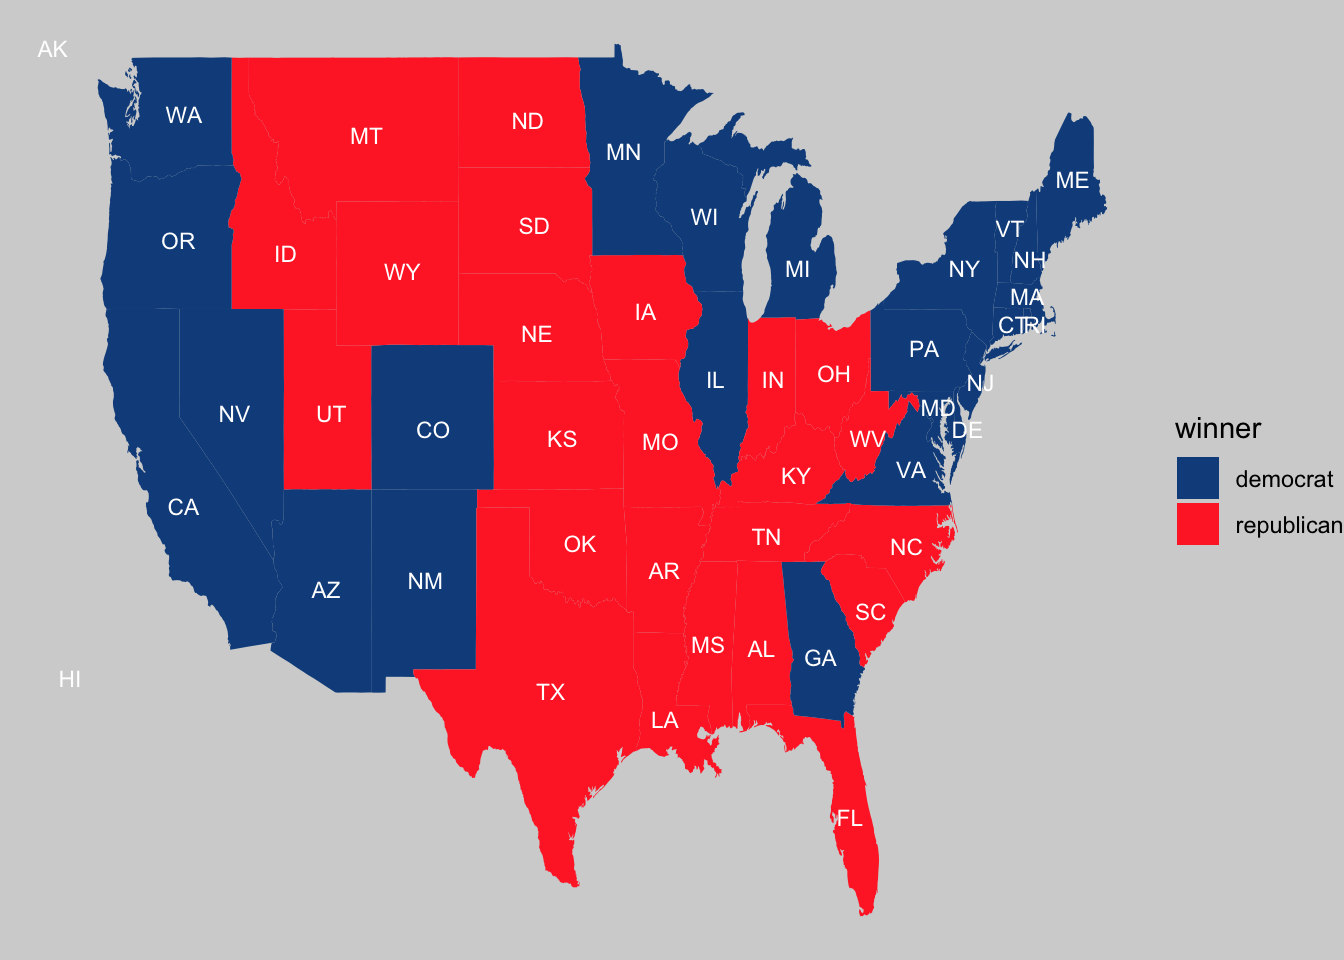
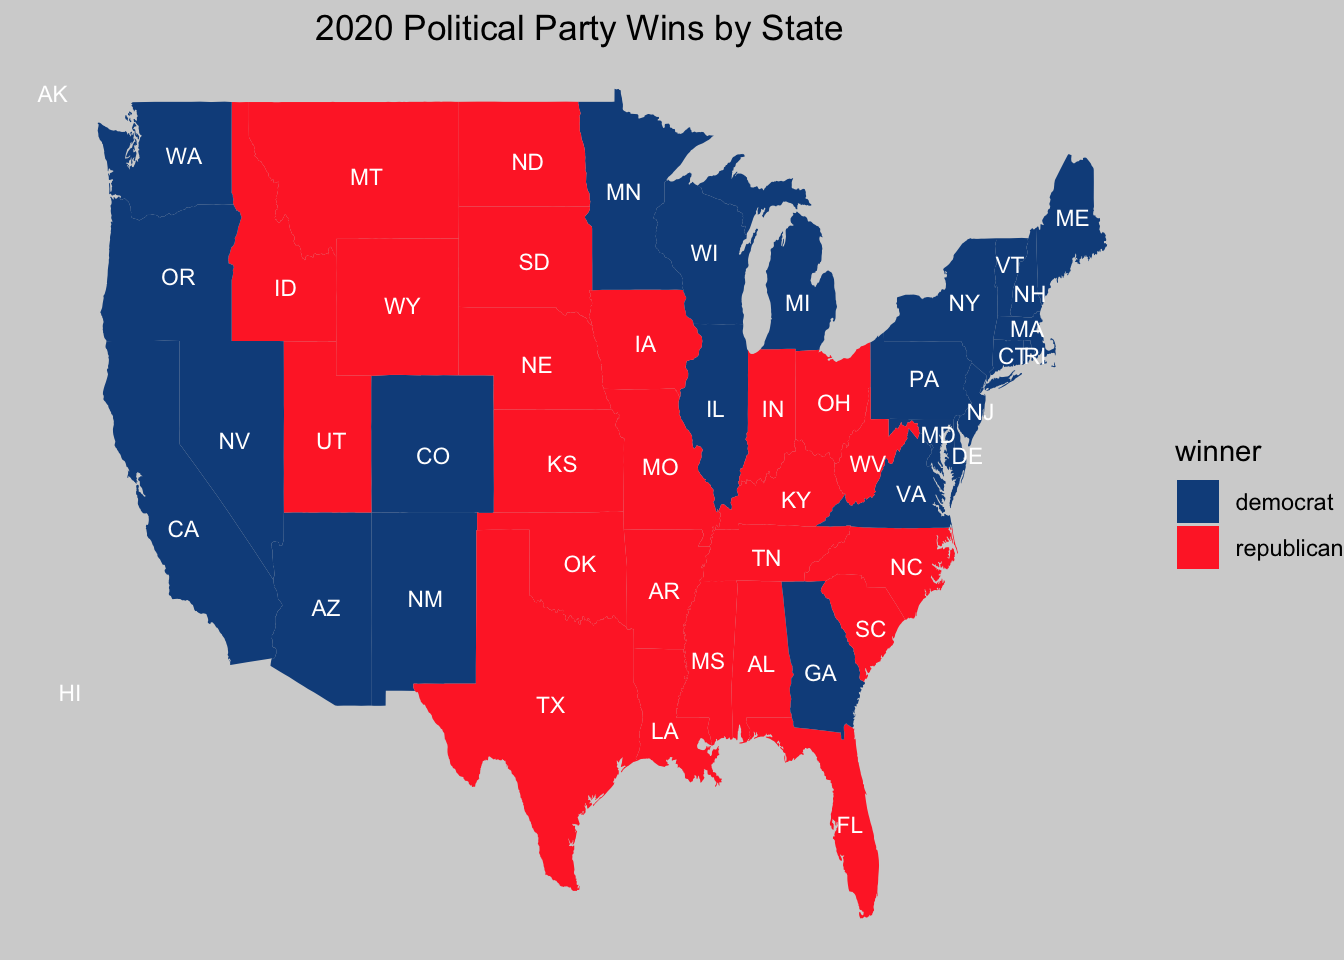
Blog 1 continued

diff --git a/public/post/2024/09/08/blog-post-1-a-dive-into-detailed-visualizations/index.html b/public/post/2024/09/08/blog-post-1-a-dive-into-detailed-visualizations/index.html
@@ -34,10 +34,6 @@
 </div>
 
 <main>
-<pre><code class="language-r">library(ggplot2)
-library(maps)
-library(tidyverse)
-</code></pre>
 <pre><code>## ── Attaching core tidyverse packages ──────────────────────── tidyverse 2.0.0 ──
 ## ✔ dplyr     1.1.4     ✔ readr     2.1.5
 ## ✔ forcats   1.0.0     ✔ stringr   1.5.1
@@ -49,35 +45,15 @@ library(tidyverse)
 ## ✖ purrr::map()    masks maps::map()
 ## ℹ Use the conflicted package (&lt;http://conflicted.r-lib.org/&gt;) to force all conflicts to become errors
 </code></pre>
-<pre><code class="language-r">library(dplyr)
-d_popvote &lt;- read.csv(&quot;/Users/chrisshen/Downloads/GOV1347/Election Blog 4/popvote_1948-2020.csv&quot;)
-</code></pre>
-<pre><code class="language-r">my_custom_theme &lt;- 
-  theme_bw() + 
-  theme(panel.border = element_blank(),
-        plot.title = element_text(size = 15, hjust = 0.5), 
-        axis.text.x = element_text(angle = 45, hjust = 1),
-        axis.text = element_text(size = 12),
-        strip.text = element_text(size = 18),
-        axis.line = element_line(colour = &quot;black&quot;),
-        legend.position = &quot;right&quot;,
-        legend.text = element_text(size = 12))
-
-d_popvote |&gt; 
-  ggplot(aes(x = year, y = pv2p, color = party)) + 
-  geom_line() + 
-  scale_color_manual(values = c(&quot;dodgerblue4&quot;, &quot;firebrick1&quot;)) + 
-  my_custom_theme + 
-  labs(
-    title = &quot;Visualize the Two-Party Presidential Popular Over Time&quot;
-  )
-</code></pre>
+<p><em>This blog is an ongoing assignment for Gov 1347: Election Analytics, a course at Harvard College taught by Professor Ryan Enos. It will be updated weekly and culminate in a predictive model of the 2024 presidential election.</em></p>
+<h2 id="introduction----how-competitive-are-presidential-elections-in-the-united-states-which-states-vote-bluered-and-how-consistently">Introduction &ndash; How competitive are presidential elections in the United States? Which states vote blue/red and how consistently?</h2>
+<p>As data analysts and political scientists get geared up for an exciting <strong>2024 Presidential Election</strong> between Kamala Harris (Democrat) and Donald Trump (Republican), we must first build an understanding of the landscape from historical data. This will give us the context necessary to build a substantial model that will hopefully predict the winner within reasonable margins.</p>
+<h2 id="a-starting-point">A Starting Point</h2>
+<p>To begin, let&rsquo;s start by examining the <strong>two-party presidential popular vote</strong> over time in the US from 1948 to 2020. The following is a line plot that depicts the how each political party&rsquo;s presidential popular vote has fluctuated over the decades indicated above.</p>
 <img src="https://example.org/post/2024/09/08/blog-post-1-a-dive-into-detailed-visualizations/index_files/figure-html/unnamed-chunk-2-1.png" width="672" />
-<pre><code class="language-r">states_map &lt;- map_data(&quot;state&quot;)
-
-# Reading the dataset
-d_pvstate_wide &lt;- read_csv(&quot;/Users/chrisshen/Downloads/GOV1347/Election Blog 4/clean_wide_state_2pv_1948_2020.csv&quot;)
-</code></pre>
+Looking at the graph above, note that the Republican vote share is the **exact inverse** of the Democratic vote share. This makes sense since we're analyzing *two-party* vote share: Republican (R) + Democrat (D) = 1, meaning R = 1 - D. Mathematically, we can verify the visualization.
+<p>Next, we observe substantial volatility in from the 1960s to the 1980s, portrayed by sharp increases and decreases by both party graph lines. Historically, this was a period of great change and turmoil in American history. For example, the Civil Rights Movement, Vietnam War, and the Watergate scandal had dramatic influences on electoral shifts and popular vote decisions. Entering the 1990s and beyond saw periods of stability and narrowing of political polarization. More importantly, the <strong>economy and global economic conditions</strong> played greater roles in determining voter trends. Entering the 21st-century, such as the 2004 and 2016 elections, saw increased emphasis on economic dynamics <a href="https://fairmodel.econ.yale.edu/RAYFAIR/PDF/2018B.htm">Fair 2018</a>. Further analysis of economic influence will be discussed in later blog posts, so stay tuned!</p>
+<h2 id="geographical-additions">Geographical Additions</h2>
 <pre><code>## Rows: 959 Columns: 14
 ## ── Column specification ────────────────────────────────────────────────────────
 ## Delimiter: &quot;,&quot;
@@ -87,50 +63,10 @@ d_pvstate_wide &lt;- read_csv(&quot;/Users/chrisshen/Downloads/GOV1347/Election 
 ## ℹ Use `spec()` to retrieve the full column specification for this data.
 ## ℹ Specify the column types or set `show_col_types = FALSE` to quiet this message.
 </code></pre>
-<pre><code class="language-r"># Merge d_pvstate_wide with state_map.
-d_pvstate_wide$region &lt;- tolower(d_pvstate_wide$state)
-
-pv_map &lt;- d_pvstate_wide |&gt;
-  filter(year == 2020) |&gt;
-  left_join(states_map, by = &quot;region&quot;)
-
-# Make map grid of state winners for each election year 
-pv_win_map &lt;- pv_map |&gt; 
-  mutate(winner = ifelse(R_pv2p &gt; D_pv2p, &quot;republican&quot;, &quot;democrat&quot;))
-
-# Create state labels (centered)
-state_centroids &lt;- data.frame(state = tolower(state.name), 
-                              long = state.center$x, 
-                              lat = state.center$y, 
-                              abb = state.abb)
-
-# Plot the map with state labels in the center
-pv_win_map |&gt; 
-  ggplot(aes(long, lat, group = group)) + 
-  geom_polygon(aes(fill = winner)) + 
-  scale_fill_manual(values = c(&quot;dodgerblue4&quot;, &quot;firebrick1&quot;)) + 
-  geom_text(data = state_centroids, aes(x = long, y = lat, label = abb), 
-            color = &quot;white&quot;, size = 3, inherit.aes = FALSE) + 
-  theme_void() +
-  theme(panel.background = element_rect(fill = &quot;lightgrey&quot;, color = NA), 
-        plot.background = element_rect(fill = &quot;lightgrey&quot;, color = NA))
-</code></pre>
-<img src="https://example.org/post/2024/09/08/blog-post-1-a-dive-into-detailed-visualizations/index_files/figure-html/unnamed-chunk-3-1.png" width="672" />
-<pre><code class="language-r">d_pvstate_wide |&gt; 
-  filter(year &gt;= 1980) |&gt; 
-  left_join(states_map, by = &quot;region&quot;) |&gt; 
-  mutate(winner = ifelse(R_pv2p &gt; D_pv2p, &quot;republican&quot;, &quot;democrat&quot;)) |&gt; 
-  ggplot(aes(long, lat, group = group)) +
-  facet_wrap(facets = year ~.) + 
-  geom_polygon(aes(fill = winner), color = &quot;white&quot;) + 
-  scale_fill_manual(values = c(&quot;dodgerblue4&quot;, &quot;firebrick1&quot;)) + 
-  theme_void() + 
-  ggtitle(&quot;Presidential Vote Share (1980-2020)&quot;) + 
-  theme(strip.text = element_text(size = 12), 
-        aspect.ratio = 1) +
-  theme(panel.background = element_rect(fill = &quot;lightgrey&quot;, color = NA), 
-        plot.background = element_rect(fill = &quot;lightgrey&quot;, color = NA))
-</code></pre>
+<div class="figure">
+<img src="https://example.org/post/2024/09/08/blog-post-1-a-dive-into-detailed-visualizations/index_files/figure-html/unnamed-chunk-3-1.png" alt="Added state abbreviations and custom theme as part of possible blog extension" width="672" />
+<p class="caption"><span id="fig:unnamed-chunk-3"></span>Figure 1: Added state abbreviations and custom theme as part of possible blog extension</p>
+</div>
 <pre><code>## Warning in left_join(filter(d_pvstate_wide, year &gt;= 1980), states_map, by = &quot;region&quot;): Detected an unexpected many-to-many relationship between `x` and `y`.
 ## ℹ Row 1 of `x` matches multiple rows in `y`.
 ## ℹ Row 1 of `y` matches multiple rows in `x`.
@@ -138,6 +74,30 @@ pv_win_map |&gt;
 ##   &quot;many-to-many&quot;` to silence this warning.
 </code></pre>
 <img src="https://example.org/post/2024/09/08/blog-post-1-a-dive-into-detailed-visualizations/index_files/figure-html/unnamed-chunk-4-1.png" width="672" />
+From second visualization, we can see that some states **consistently vote for one party**, indicating strong partisanship and party loyalty. More specifically, western coastal states like California, Oregon, and Washington and northeastern states such as New York and Massachusetts have consistently voted Democratic (blue). In contrast, the south and midwest states like Texas, Oklahoma, and Alabama have stuck with republican candidates. Research suggests factors including demographics, geography, cultural values, and economic conditions play key roles in these consistent states. For example, states with large urban populations with greater racial and ethnic diversity historically lean left compared to more white, working-class voters. Traditionally Christian communities in Alabama, Mississippi, and Oklahoma remain stiff on social issues that align more closely with the right. These are just a few significant identifiers among these states in a larger tug-of-war between blue and red.
+<p>Interestingly, we also see clear <strong>swing states</strong> among such regional loyalty like Florida, Ohio, and Pennsylvania with far more partisan variability over time. Within battlegrounds (eg. Texas) include many large urban centers, such as Austin and Houston, that lean left but remain overshadowed by the strength of suburban conservative voters. These will likely be key battleground areas that can shift the direction for both parties, amplifying the competitiveness of an already tense election.</p>
+<h2 id="a-simple-model">A Simple Model</h2>
+<img src="https://example.org/post/2024/09/08/blog-post-1-a-dive-into-detailed-visualizations/index_files/figure-html/unnamed-chunk-5-1.png" width="672" />
+<pre><code>## Rows: 936 Columns: 3
+## ── Column specification ────────────────────────────────────────────────────────
+## Delimiter: &quot;,&quot;
+## chr (1): state
+## dbl (2): electors, year
+## 
+## ℹ Use `spec()` to retrieve the full column specification for this data.
+## ℹ Specify the column types or set `show_col_types = FALSE` to quiet this message.
+</code></pre>
+<pre><code>## # A tibble: 2 × 2
+##   winner electoral_votes
+##   &lt;chr&gt;            &lt;dbl&gt;
+## 1 D                  276
+## 2 R                  262
+</code></pre>
+<p>Looking at the simple forecasting model above, we can see how swing states (nearly white, meaning zero or very small win margin) continue to be up for grabs, while consistently red and blue states still show similar patterns. The model also predicts southwest and sun belt states, such as Nevada and Arizona, will also be contentious, particularly as shifting political attitudes and younger Latino voters <a href="https://link.springer.com/article/10.1007/s11109-022-09816-z">Kim 2022</a> become more involved. These changes will only heighten the competitive nature of this year&rsquo;s election, making the challenge of predicting the election ever-more interesting.</p>
+<h2 id="now-what">Now What?</h2>
+<p>With an extensive understanding of the historical two-party presidential vote share and geographic voting trends, we can now begin diving deeper into more fundamental influences that shape elections, now and in the future.</p>
+<h2 id="data-sources">Data Sources:</h2>
+<p>Data are from the GOV 1347 course materials. All files can be found <a href="https://github.com/cys9772/election-blog4">here</a>.</p>
 
 </main>
 

diff --git a/content/post/2024-09-08-blog-post-1-a-dive-into-detailed-visualizations/index.md b/content/post/2024-09-08-blog-post-1-a-dive-into-detailed-visualizations/index.md
@@ -8,12 +8,6 @@ tags: []
 ---
 
 
-``` r
-library(ggplot2)
-library(maps)
-library(tidyverse)
-```
-
 ```
 ## ── Attaching core tidyverse packages ──────────────────────── tidyverse 2.0.0 ──
 ## ✔ dplyr     1.1.4     ✔ readr     2.1.5
@@ -27,44 +21,23 @@ library(tidyverse)
 ## ℹ Use the conflicted package (<http://conflicted.r-lib.org/>) to force all conflicts to become errors
 ```
 
-``` r
-library(dplyr)
-d_popvote <- read.csv("/Users/chrisshen/Downloads/GOV1347/Election Blog 4/popvote_1948-2020.csv")
-```
+*This blog is an ongoing assignment for Gov 1347: Election Analytics, a course at Harvard College taught by Professor Ryan Enos. It will be updated weekly and culminate in a predictive model of the 2024 presidential election.*
 
+## Introduction -- How competitive are presidential elections in the United States? Which states vote blue/red and how consistently?
 
+As data analysts and political scientists get geared up for an exciting **2024 Presidential Election** between Kamala Harris (Democrat) and Donald Trump (Republican), we must first build an understanding of the landscape from historical data. This will give us the context necessary to build a substantial model that will hopefully predict the winner within reasonable margins.
 
-``` r
-my_custom_theme <- 
-  theme_bw() + 
-  theme(panel.border = element_blank(),
-        plot.title = element_text(size = 15, hjust = 0.5), 
-        axis.text.x = element_text(angle = 45, hjust = 1),
-        axis.text = element_text(size = 12),
-        strip.text = element_text(size = 18),
-        axis.line = element_line(colour = "black"),
-        legend.position = "right",
-        legend.text = element_text(size = 12))
+## A Starting Point
 
-d_popvote |> 
-  ggplot(aes(x = year, y = pv2p, color = party)) + 
-  geom_line() + 
-  scale_color_manual(values = c("dodgerblue4", "firebrick1")) + 
-  my_custom_theme + 
-  labs(
-    title = "Visualize the Two-Party Presidential Popular Over Time"
-  )
-```
+To begin, let's start by examining the **two-party presidential popular vote** over time in the US from 1948 to 2020. The following is a line plot that depicts the how each political party's presidential popular vote has fluctuated over the decades indicated above.
 
 <img src="{{< blogdown/postref >}}index_files/figure-html/unnamed-chunk-2-1.png" width="672" />
+Looking at the graph above, note that the Republican vote share is the **exact inverse** of the Democratic vote share. This makes sense since we're analyzing *two-party* vote share: Republican (R) + Democrat (D) = 1, meaning R = 1 - D. Mathematically, we can verify the visualization.
 
+Next, we observe substantial volatility in from the 1960s to the 1980s, portrayed by sharp increases and decreases by both party graph lines. Historically, this was a period of great change and turmoil in American history. For example, the Civil Rights Movement, Vietnam War, and the Watergate scandal had dramatic influences on electoral shifts and popular vote decisions. Entering the 1990s and beyond saw periods of stability and narrowing of political polarization. More importantly, the **economy and global economic conditions** played greater roles in determining voter trends. Entering the 21st-century, such as the 2004 and 2016 elections, saw increased emphasis on economic dynamics [Fair 2018](https://fairmodel.econ.yale.edu/RAYFAIR/PDF/2018B.htm). Further analysis of economic influence will be discussed in later blog posts, so stay tuned!
 
-``` r
-states_map <- map_data("state")
+## Geographical Additions
 
-# Reading the dataset
-d_pvstate_wide <- read_csv("/Users/chrisshen/Downloads/GOV1347/Election Blog 4/clean_wide_state_2pv_1948_2020.csv")
-```
 
 ```
 ## Rows: 959 Columns: 14
@@ -77,55 +50,10 @@ d_pvstate_wide <- read_csv("/Users/chrisshen/Downloads/GOV1347/Election Blog 4/c
 ## ℹ Specify the column types or set `show_col_types = FALSE` to quiet this message.
 ```
 
-``` r
-# Merge d_pvstate_wide with state_map.
-d_pvstate_wide$region <- tolower(d_pvstate_wide$state)
-
-pv_map <- d_pvstate_wide |>
-  filter(year == 2020) |>
-  left_join(states_map, by = "region")
-
-# Make map grid of state winners for each election year 
-pv_win_map <- pv_map |> 
-  mutate(winner = ifelse(R_pv2p > D_pv2p, "republican", "democrat"))
-
-# Create state labels (centered)
-state_centroids <- data.frame(state = tolower(state.name), 
-                              long = state.center$x, 
-                              lat = state.center$y, 
-                              abb = state.abb)
-
-# Plot the map with state labels in the center
-pv_win_map |> 
-  ggplot(aes(long, lat, group = group)) + 
-  geom_polygon(aes(fill = winner)) + 
-  scale_fill_manual(values = c("dodgerblue4", "firebrick1")) + 
-  geom_text(data = state_centroids, aes(x = long, y = lat, label = abb), 
-            color = "white", size = 3, inherit.aes = FALSE) + 
-  theme_void() +
-  theme(panel.background = element_rect(fill = "lightgrey", color = NA), 
-        plot.background = element_rect(fill = "lightgrey", color = NA))
-```
-
-<img src="{{< blogdown/postref >}}index_files/figure-html/unnamed-chunk-3-1.png" width="672" />
-
-
-``` r
-d_pvstate_wide |> 
-  filter(year >= 1980) |> 
-  left_join(states_map, by = "region") |> 
-  mutate(winner = ifelse(R_pv2p > D_pv2p, "republican", "democrat")) |> 
-  ggplot(aes(long, lat, group = group)) +
-  facet_wrap(facets = year ~.) + 
-  geom_polygon(aes(fill = winner), color = "white") + 
-  scale_fill_manual(values = c("dodgerblue4", "firebrick1")) + 
-  theme_void() + 
-  ggtitle("Presidential Vote Share (1980-2020)") + 
-  theme(strip.text = element_text(size = 12), 
-        aspect.ratio = 1) +
-  theme(panel.background = element_rect(fill = "lightgrey", color = NA), 
-        plot.background = element_rect(fill = "lightgrey", color = NA))
-```
+<div class="figure">
+<img src="{{< blogdown/postref >}}index_files/figure-html/unnamed-chunk-3-1.png" alt="Added state abbreviations and custom theme as part of possible blog extension" width="672" />
+<p class="caption"><span id="fig:unnamed-chunk-3"></span>Figure 1: Added state abbreviations and custom theme as part of possible blog extension</p>
+</div>
 
 ```
 ## Warning in left_join(filter(d_pvstate_wide, year >= 1980), states_map, by = "region"): Detected an unexpected many-to-many relationship between `x` and `y`.
@@ -136,4 +64,38 @@ d_pvstate_wide |>
 ```
 
 <img src="{{< blogdown/postref >}}index_files/figure-html/unnamed-chunk-4-1.png" width="672" />
+From second visualization, we can see that some states **consistently vote for one party**, indicating strong partisanship and party loyalty. More specifically, western coastal states like California, Oregon, and Washington and northeastern states such as New York and Massachusetts have consistently voted Democratic (blue). In contrast, the south and midwest states like Texas, Oklahoma, and Alabama have stuck with republican candidates. Research suggests factors including demographics, geography, cultural values, and economic conditions play key roles in these consistent states. For example, states with large urban populations with greater racial and ethnic diversity historically lean left compared to more white, working-class voters. Traditionally Christian communities in Alabama, Mississippi, and Oklahoma remain stiff on social issues that align more closely with the right. These are just a few significant identifiers among these states in a larger tug-of-war between blue and red.
 
+Interestingly, we also see clear **swing states** among such regional loyalty like Florida, Ohio, and Pennsylvania with far more partisan variability over time. Within battlegrounds (eg. Texas) include many large urban centers, such as Austin and Houston, that lean left but remain overshadowed by the strength of suburban conservative voters. These will likely be key battleground areas that can shift the direction for both parties, amplifying the competitiveness of an already tense election.
+
+## A Simple Model
+
+<img src="{{< blogdown/postref >}}index_files/figure-html/unnamed-chunk-5-1.png" width="672" />
+
+```
+## Rows: 936 Columns: 3
+## ── Column specification ────────────────────────────────────────────────────────
+## Delimiter: ","
+## chr (1): state
+## dbl (2): electors, year
+## 
+## ℹ Use `spec()` to retrieve the full column specification for this data.
+## ℹ Specify the column types or set `show_col_types = FALSE` to quiet this message.
+```
+
+```
+## # A tibble: 2 × 2
+##   winner electoral_votes
+##   <chr>            <dbl>
+## 1 D                  276
+## 2 R                  262
+```
+Looking at the simple forecasting model above, we can see how swing states (nearly white, meaning zero or very small win margin) continue to be up for grabs, while consistently red and blue states still show similar patterns. The model also predicts southwest and sun belt states, such as Nevada and Arizona, will also be contentious, particularly as shifting political attitudes and younger Latino voters [Kim 2022](https://link.springer.com/article/10.1007/s11109-022-09816-z) become more involved. These changes will only heighten the competitive nature of this year's election, making the challenge of predicting the election ever-more interesting.
+
+## Now What?
+
+With an extensive understanding of the historical two-party presidential vote share and geographic voting trends, we can now begin diving deeper into more fundamental influences that shape elections, now and in the future.
+
+## Data Sources:
+
+Data are from the GOV 1347 course materials. All files can be found [here](https://github.com/cys9772/election-blog4).
